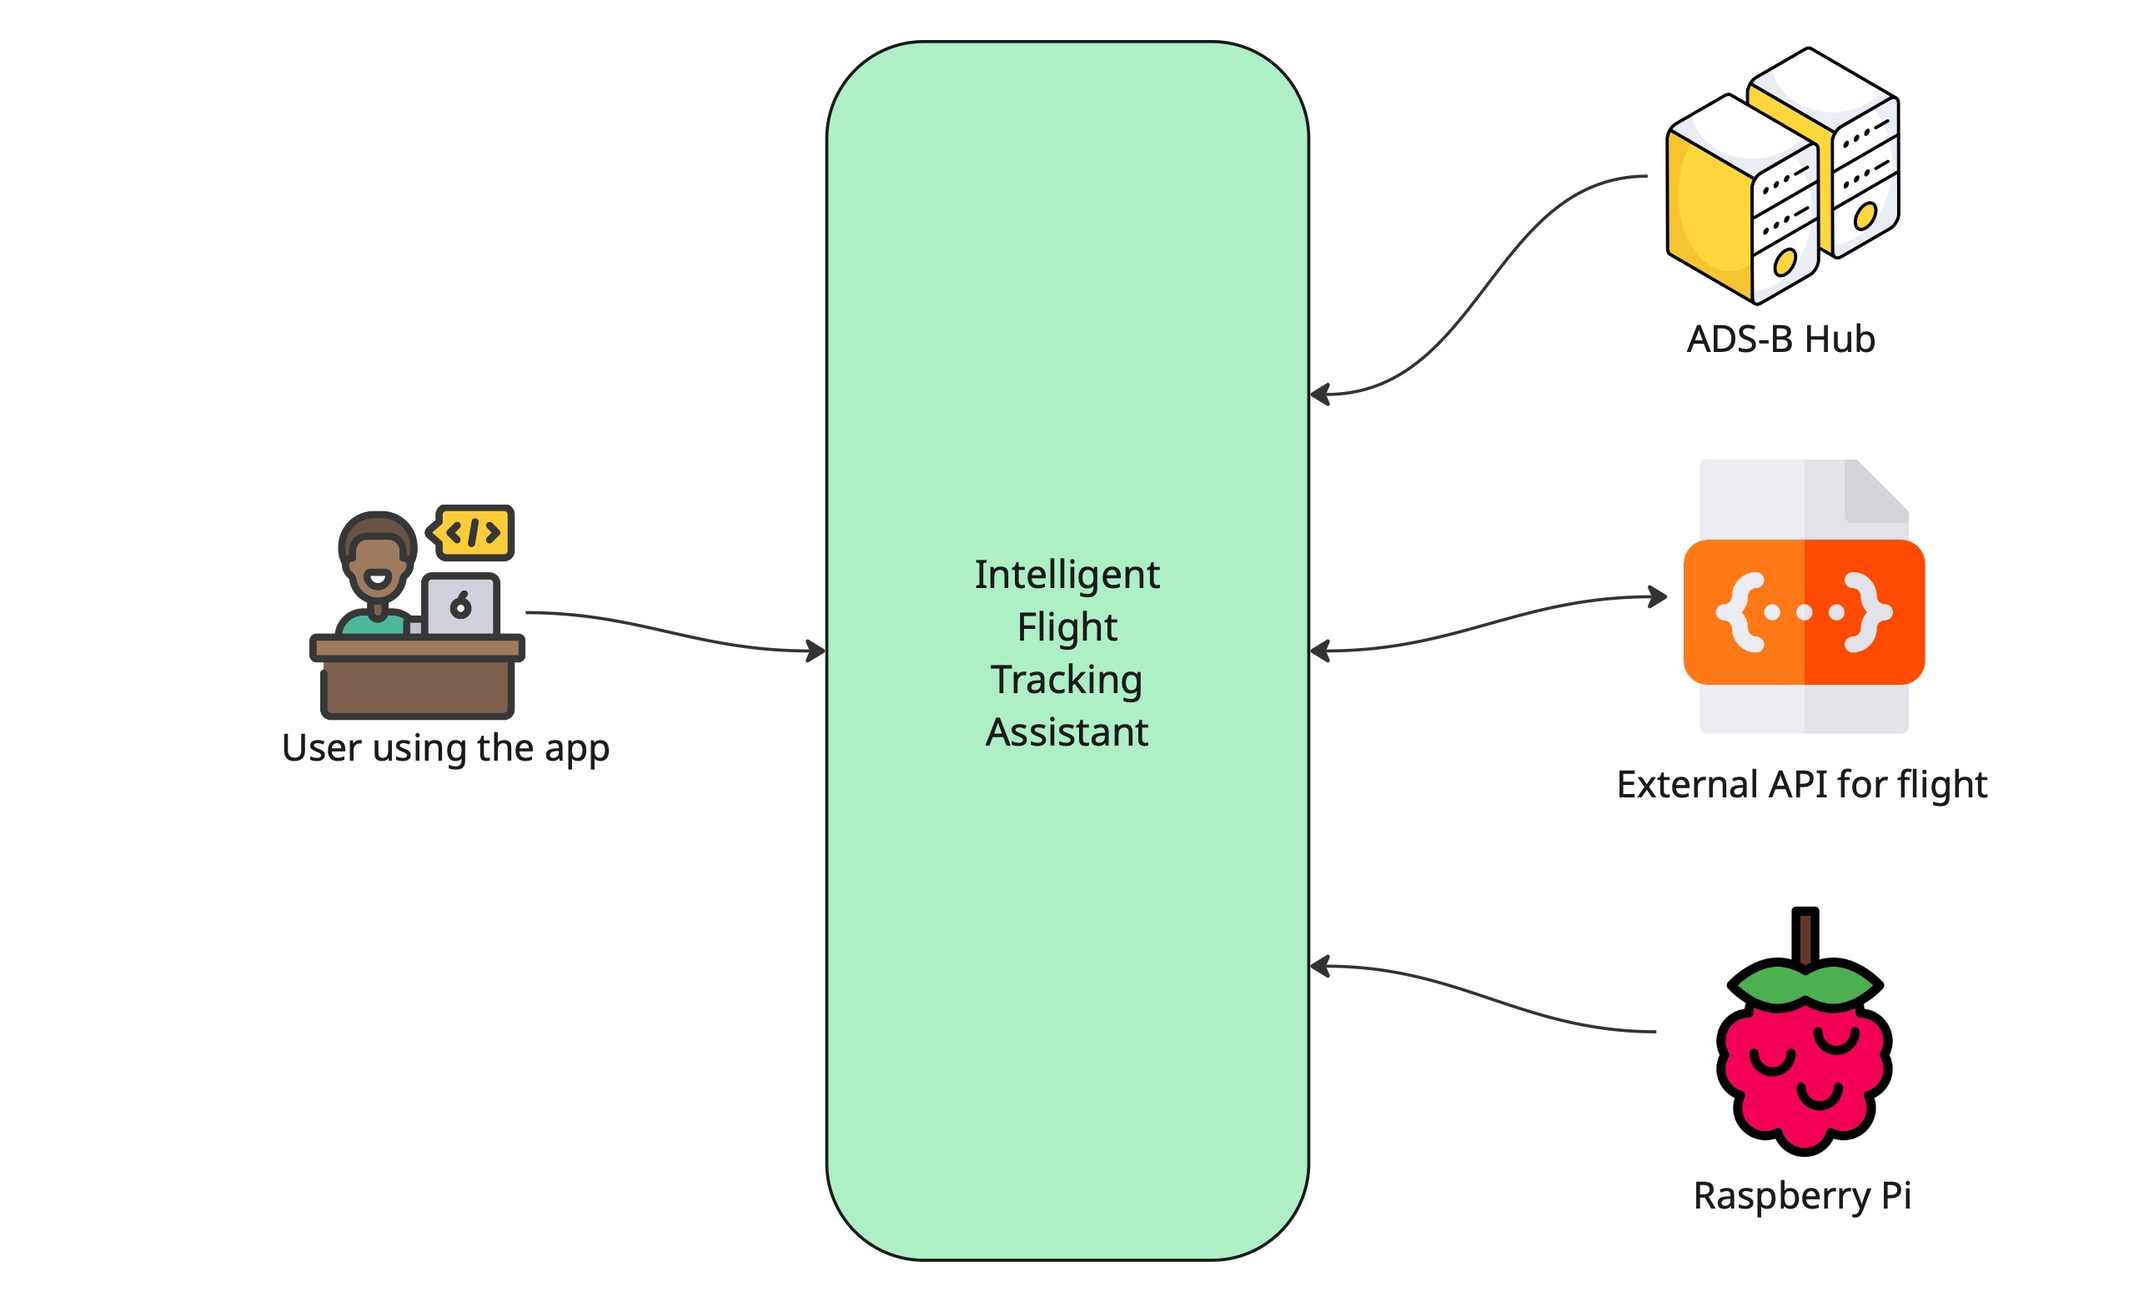
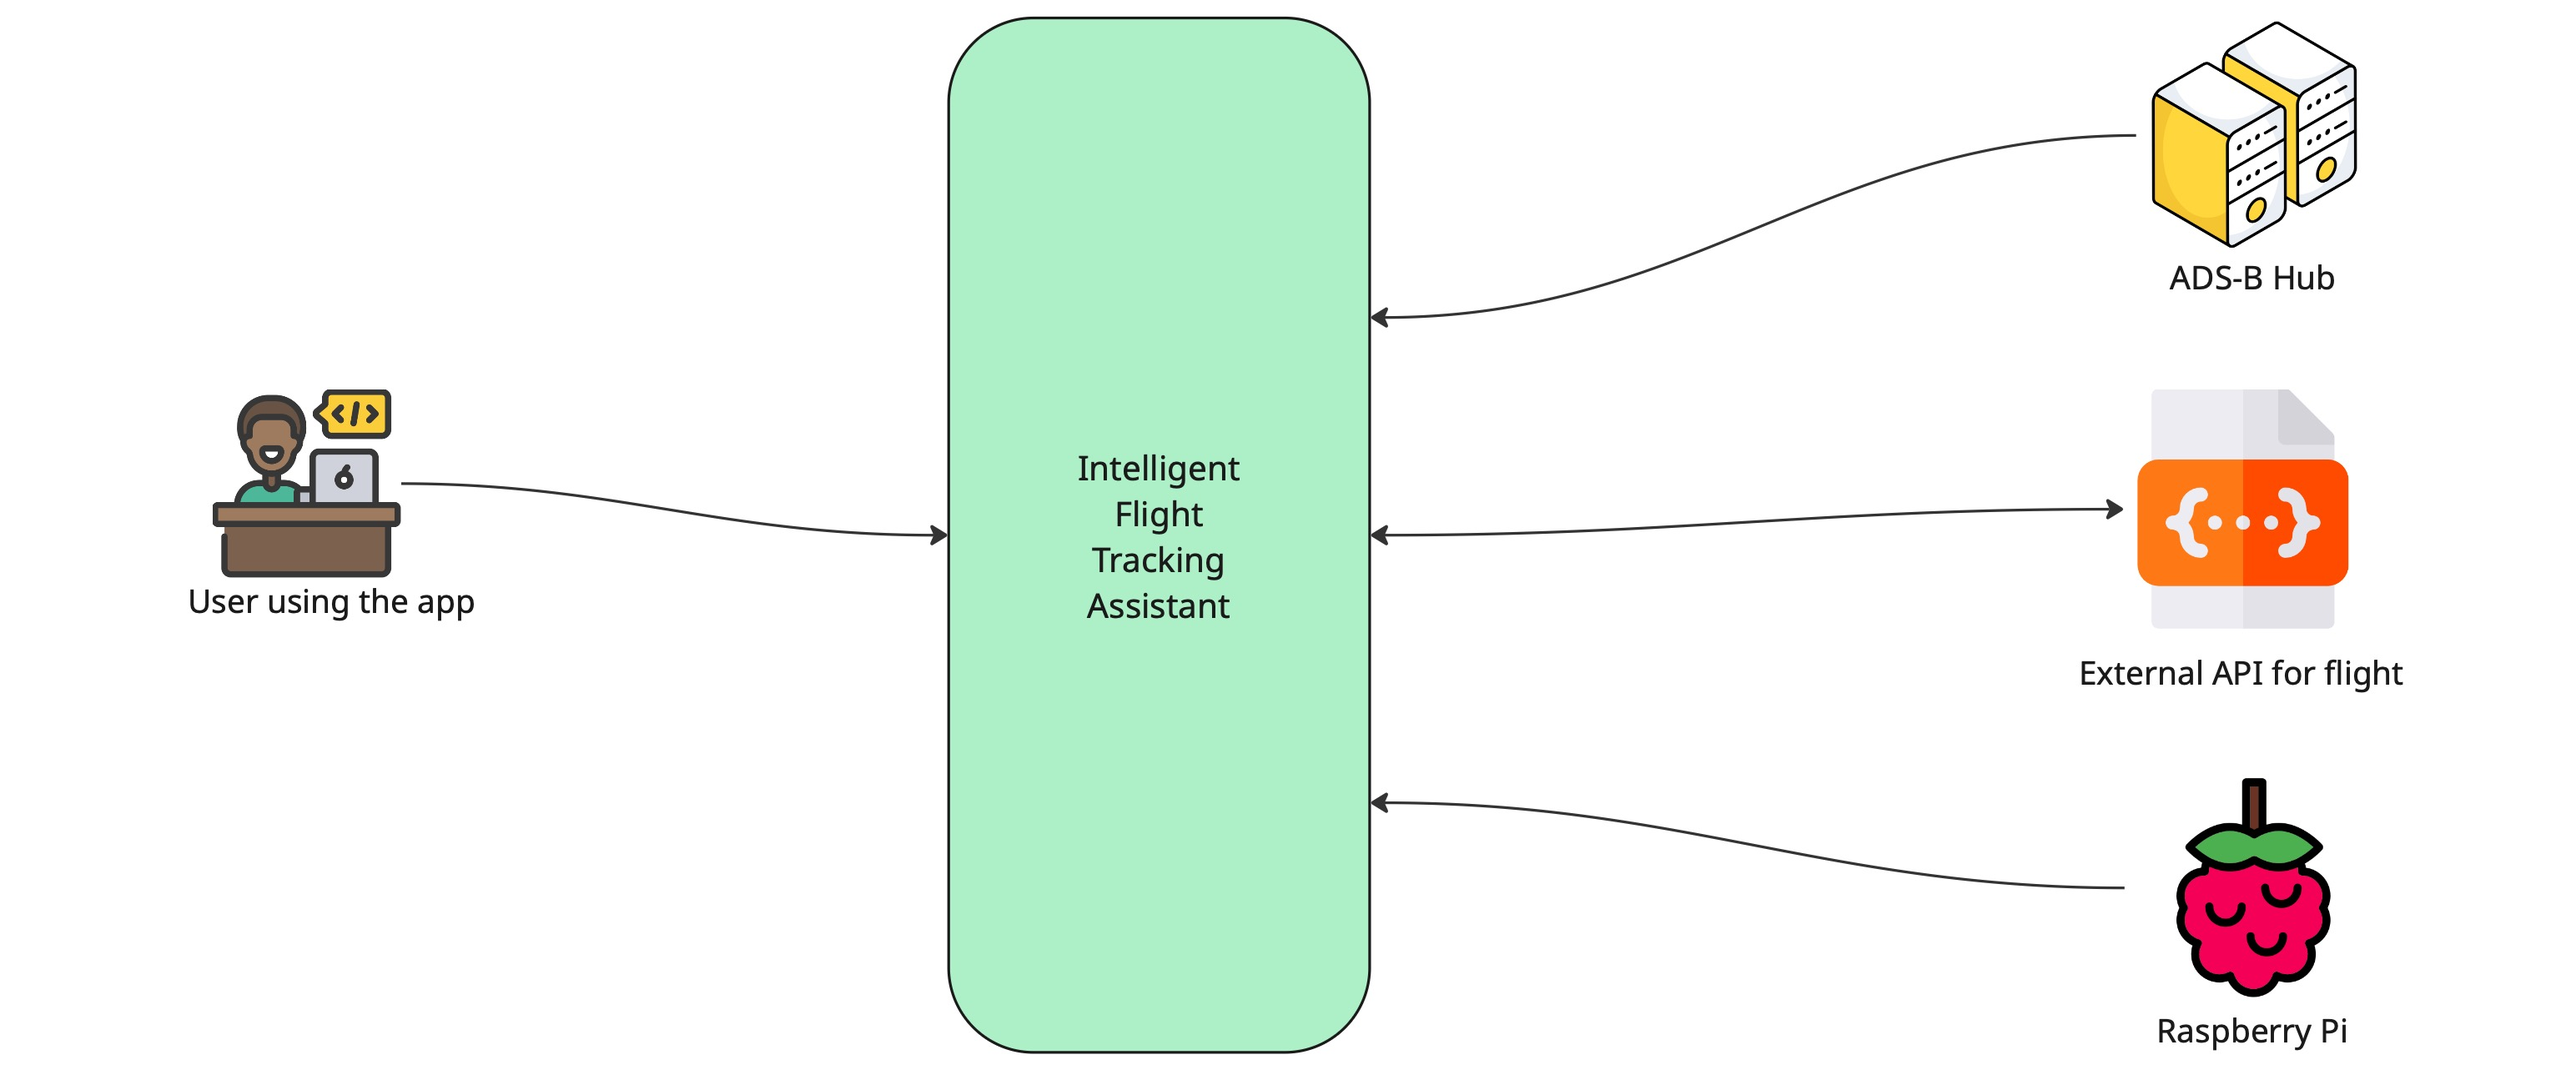
fix contextdiagram ratio

diff --git a/architecture.md b/architecture.md
@@ -4,7 +4,7 @@ You can find our software architecture documentation for system requirements in 
 
 First, the context diagram of our system and external elements is as follows.
 
-<img src="./images/context-diagram.jpg" alt="Context Diagram" style="zoom:33%;" />
+![Context Diagram](./images/context-diagram.jpg)
 
 
 
